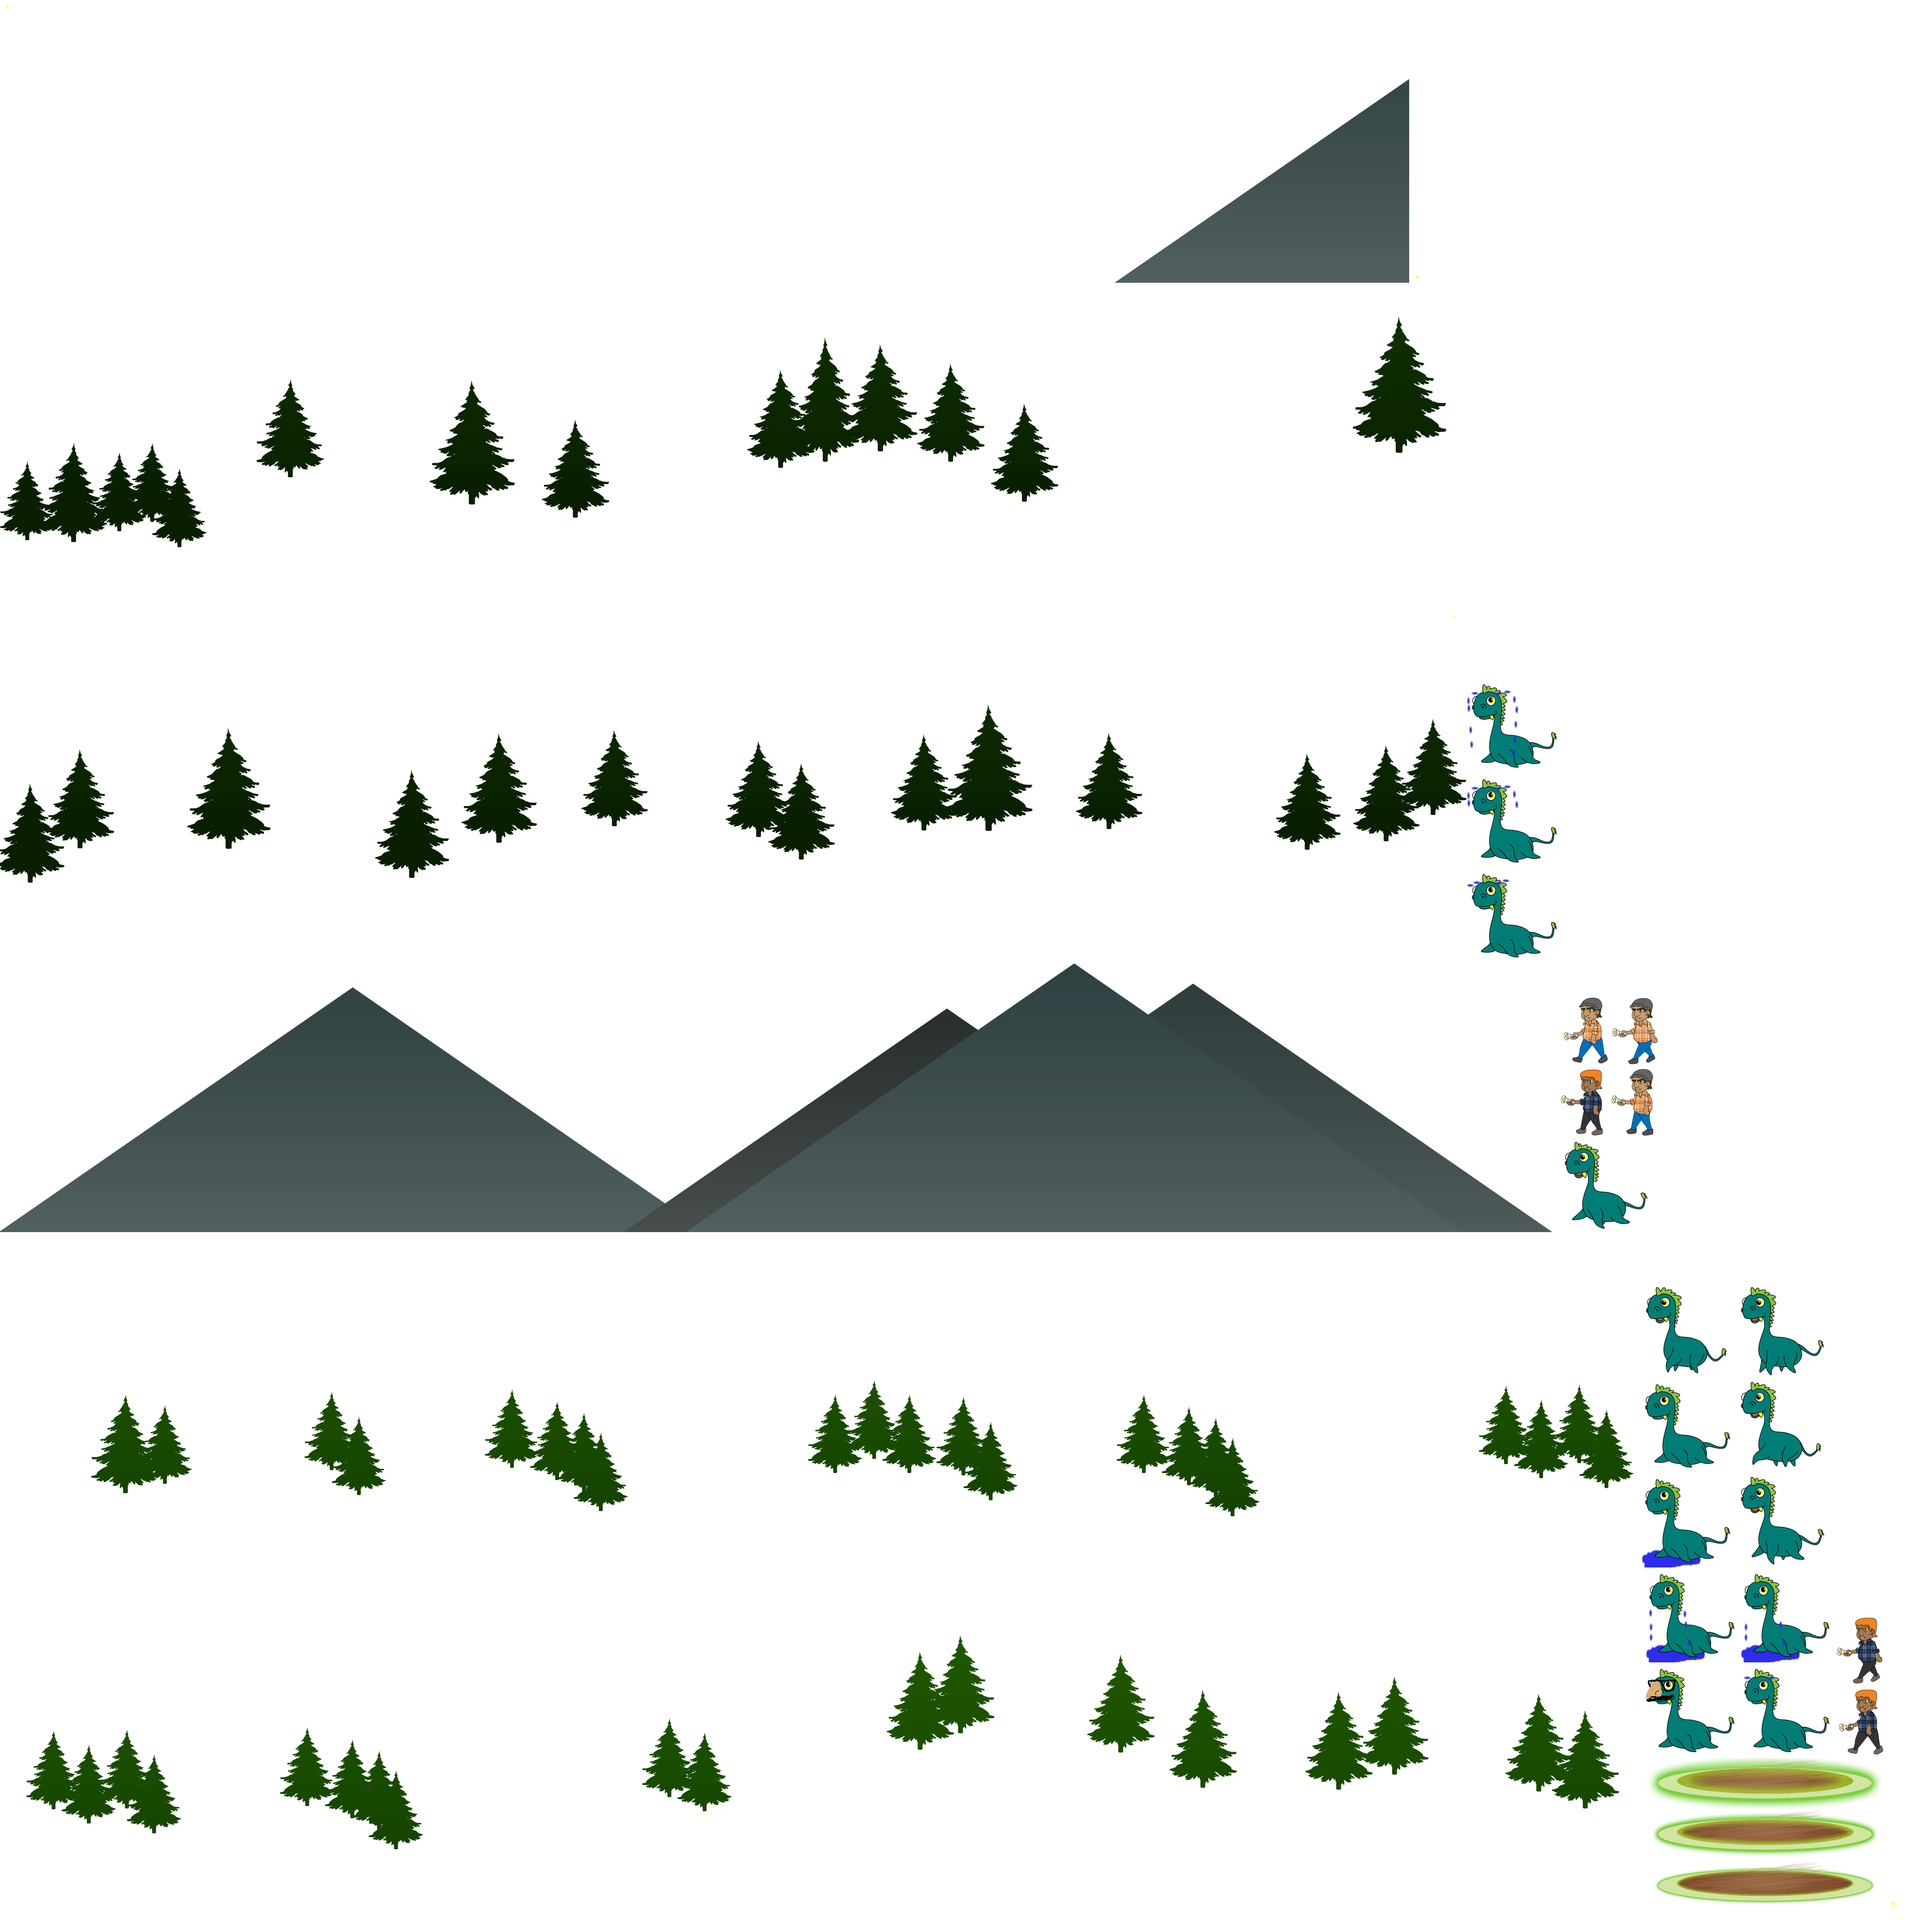
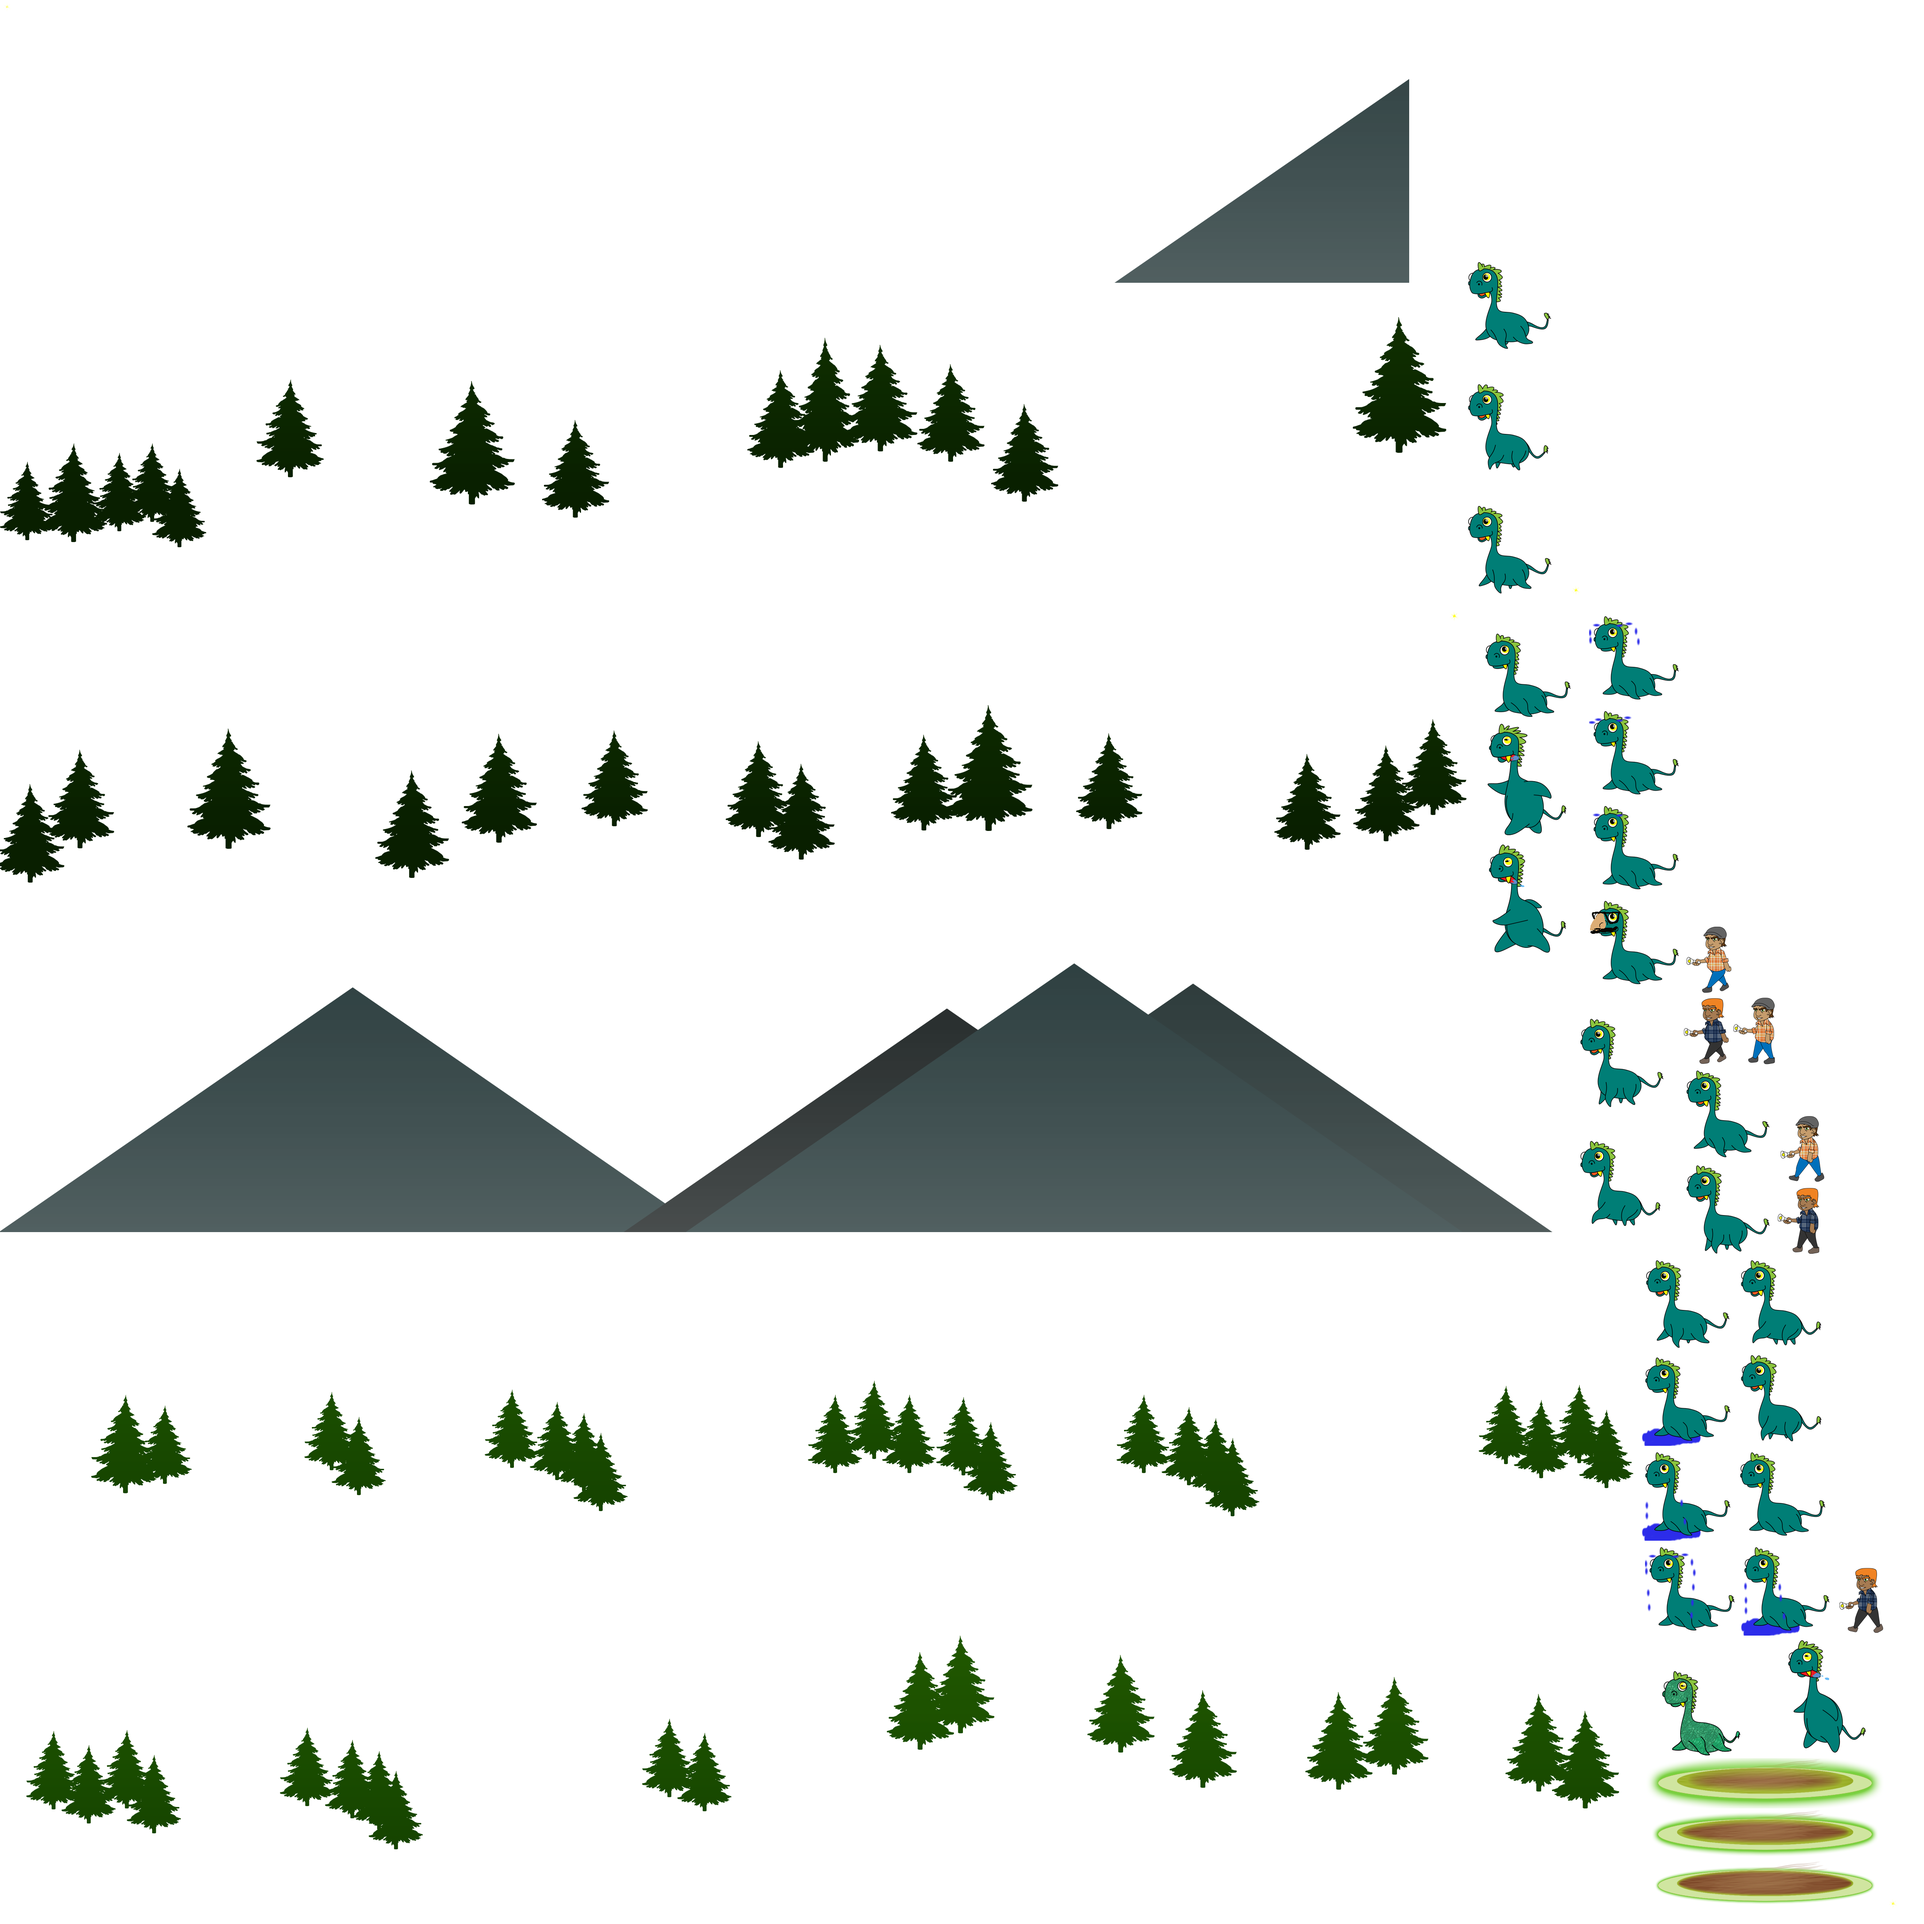
Added Running animation and bounding box increase

Changed region(s): [[0.75, 0.125, 1.0, 0.9375]]

diff --git a/core/src/com/pineapplepiranha/games/scene2d/actor/Player.java b/core/src/com/pineapplepiranha/games/scene2d/actor/Player.java
@@ -35,13 +35,15 @@ public class Player extends DepthActor{
     public boolean isHiding = false;
     public boolean isDisguised = false;
     protected boolean isFound = false;
+    public boolean isRunning = false;
 
     public Player(float x, float y, float width, float height, TextureRegion tr){
         super(x+BUFFER, y+BUFFER, width-BUFFER*2, height-(BUFFER*2), tr, 0);
         setColor(Color.YELLOW);
         normalTexture = tr;
         animation = null;
-        collider.set(x+(width/4), y+(height/4), width/2, height/2);
+        //collider.set(x+(width/4), y+(height/4), width/2, height/2);
+        collider.set(x+(width/4), y, width/2, height/2);
     }
 
     public Player(float x, float y, float width, float height, Animation anim){
@@ -53,7 +55,14 @@ public class Player extends DepthActor{
 
     @Override
     protected void adjustCollidingBox(float delta) {
-        collider.set(getX()+(getWidth()/4), getY()+(getHeight()/4), getWidth()/2, getHeight()/2);
+        if(isRunning){
+            Gdx.app.log("PLAYER", "IS RUNNING");
+            //collider.set(getX()+(getWidth()/8), getY()+(getHeight()/8), (getWidth()/1.5f), (getHeight()/1.5f));
+            collider.set(getX()+(getWidth()/8), getY(), (getWidth()/1.5f), (getHeight()/1.5f));
+        }   else{
+            //collider.set(getX()+(getWidth()/4), getY()+(getHeight()/4), getWidth()/2, getHeight()/2);
+            collider.set(getX()+(getWidth()/4), getY(), getWidth()/2, getHeight()/2);
+        }
     }
 
     @Override
@@ -80,10 +89,6 @@ public class Player extends DepthActor{
             }
             return;
         }else{
-
-            if(runningAnimation != null && isRunning()){
-               textureRegion = runningAnimation.getKeyFrame(keyFrameTotal);
-            }
             if(velocity.x == 0.0f && velocity.y == 0.0f){
                 //
                 if(isHiding){
@@ -93,7 +98,7 @@ public class Player extends DepthActor{
                 }
                 keyFrameTotal = 0f;
             }else if(animation != null){
-                textureRegion = animation.getKeyFrame(keyFrameTotal, true);
+                textureRegion = isRunning ? runningAnimation.getKeyFrame(keyFrameTotal, true) : animation.getKeyFrame(keyFrameTotal, true);
                 if(velocity.x < 0f){
                     textureRegion.flip(true, false);
 
@@ -154,13 +159,12 @@ public class Player extends DepthActor{
         return isFound;
     }
 
-    public boolean isRunning(){
-        return Math.abs(velocity.x) > speed || Math.abs(velocity.y) > speed;
-    }
     @Override
     protected void drawFull(Batch batch, float parentAlpha) {
         //super.drawFull(batch, parentAlpha);
-        if(isRunning()){
+        if(isRunning && velocity.x != 0f && velocity.y != 0f){
+            batch.draw(textureRegion, getX()-(BUFFER/2), getY()-(BUFFER/2), getWidth()+(BUFFER), getHeight()+(BUFFER));
+        }else{
             batch.draw(textureRegion, getX()-BUFFER, getY()-BUFFER, getWidth()+(BUFFER*2), getHeight()+(BUFFER*2));
         }
         if(KasetagenStateUtil.isDebugMode()){

diff --git a/core/src/com/pineapplepiranha/games/scene2d/actor/Patroler.java b/core/src/com/pineapplepiranha/games/scene2d/actor/Patroler.java
@@ -8,6 +8,7 @@ import com.badlogic.gdx.graphics.g2d.TextureRegion;
 import com.badlogic.gdx.graphics.glutils.ShapeRenderer;
 import com.badlogic.gdx.math.Rectangle;
 import com.badlogic.gdx.math.Vector2;
+import com.kasetagen.engine.gdx.scenes.scene2d.KasetagenStateUtil;
 import com.pineapplepiranha.games.scene2d.GenericActor;
 
 /**
@@ -46,20 +47,20 @@ public class Patroler extends DepthActor{
         velocity = new Vector2(speed, 0f);
         this.depthPos = depthPos;
         this.range = range;
-        this.visionBox = new Rectangle(x-(getVisionBoxWidth()), y-(height/2), getVisionBoxWidth(), height*2);
+        this.visionBox = new Rectangle(x-(getVisionBoxWidth()), y-(height/4), getVisionBoxWidth(), height*1.5f);
         this.animation = ani;
     }
-    public Patroler(float x, float y, float width, float height, TextureRegion tr, int depthPos, float range){
-        super(x, y, width, height, tr, depthPos);
-        setColor(Color.BLUE);
-        initialPos = new Vector2(x, y);
-        minX = x + (width/2) - range;
-        maxX = x + (width/2) + range;
-        velocity = new Vector2(speed, 0f);
-        this.depthPos = depthPos;
-        this.range = range;
-        this.visionBox = new Rectangle(x-(getVisionBoxWidth()), y-(height/4), getVisionBoxWidth(), height*1.5f);
-    }
+    //    public Patroler(float x, float y, float width, float height, TextureRegion tr, int depthPos, float range){
+    //        super(x, y, width, height, tr, depthPos);
+    //        setColor(Color.BLUE);
+    //        initialPos = new Vector2(x, y);
+    //        minX = x + (width/2) - range;
+    //        maxX = x + (width/2) + range;
+    //        velocity = new Vector2(speed, 0f);
+    //        this.depthPos = depthPos;
+    //        this.range = range;
+    //        this.visionBox = new Rectangle(x-(getVisionBoxWidth()), y-(height/4), getVisionBoxWidth(), height*1.5f);
+    //    }
 
     private float getVisionBoxWidth(){
         return getWidth()*2;
@@ -116,6 +117,26 @@ public class Patroler extends DepthActor{
 
         if(flashlight != null){
             batch.draw(flashlight, visionBox.x, visionBox.y, visionBox.width, visionBox.height);
+        }
+
+        if(KasetagenStateUtil.isDebugMode()){
+            batch.end();
+            batch.begin();
+            Gdx.gl20.glLineWidth(1f);
+            //Set the projection matrix, and line shape
+            debugRenderer.setProjectionMatrix(getStage().getCamera().combined);
+            debugRenderer.begin(ShapeRenderer.ShapeType.Line);
+
+            //Draw the bounds of the actor as a box
+            Color c = getColor() != null ? getColor() : Color.WHITE;
+            debugRenderer.setColor(c);
+            debugRenderer.rect(visionBox.x, visionBox.y, visionBox.width, visionBox.height);
+
+            //End our shapeRenderer, flush the batch, and re-open it for future use as it was open
+            // coming in.
+            debugRenderer.end();
+            batch.end();
+            batch.begin();
         }
 
     }

diff --git a/core/src/com/pineapplepiranha/games/scene2d/stage/StealthNessieStage.java b/core/src/com/pineapplepiranha/games/scene2d/stage/StealthNessieStage.java
@@ -160,18 +160,20 @@ public class StealthNessieStage extends BaseStage {
         landingPad.setZIndex(depthInitialIndex++);
 
 
-        Animation walking = new Animation(1f/5f, atlas.findRegions("nessie/Walk"));
+        Animation walking = new Animation(1f/5f, atlas.findRegions("nessie/Walking"));
         Animation sadNessie = new Animation(1f/7f, atlas.findRegions("nessie/Sad"));
-        TextureRegion hidingTr = new TextureRegion(am.get(AssetsUtil.NESSIE_PTRN, AssetsUtil.TEXTURE));
+        Animation runNessie = new Animation(1f/6f, atlas.findRegions("nessie/Run"));
+        TextureRegion hidingTr = atlas.findRegion("nessie/Cammo");
         hidingTr.flip(true, false);
-        TextureRegion normalTr = atlas.findRegion("nessie/Still");
+        TextureRegion normalTr = atlas.findRegion("nessie/Stills");
         normalTr.flip(true, false);
 
         TextureRegion disguisedTr = atlas.findRegion("nessie/Disguised");
         disguisedTr.flip(true, false);
 
-        player = new Player(playerPos.x, playerPos.y, 150f, 150f, walking);
+        player = new Player(playerPos.x, playerPos.y, 200f, 200f, walking);
         player.sadAnimation = sadNessie;
+        player.runningAnimation = runNessie;
         player.setHidingTexture(hidingTr);
         player.setNormalTexture(normalTr);
         player.disguisedTexture = disguisedTr;
@@ -376,6 +378,7 @@ public class StealthNessieStage extends BaseStage {
                     }
 
                     if(Input.Keys.SHIFT_LEFT == keycode || Input.Keys.SHIFT_RIGHT == keycode){
+                        player.isRunning = true;
                         player.speed = player.speed*2f;
                         player.setXVelocity(player.velocity.x*2f);
                         player.setYVelocity(player.velocity.y*2f);
@@ -414,6 +417,7 @@ public class StealthNessieStage extends BaseStage {
                     }
                 }
                 if(Input.Keys.SHIFT_LEFT == keycode || Input.Keys.SHIFT_RIGHT == keycode){
+                    player.isRunning = false;
                     player.speed = player.speed/2f;
                     player.setXVelocity(player.velocity.x/2f);
                     player.setYVelocity(player.velocity.y/2f);

diff --git a/core/src/com/pineapplepiranha/games/SneakyNessieGame.java b/core/src/com/pineapplepiranha/games/SneakyNessieGame.java
@@ -60,7 +60,6 @@ public class SneakyNessieGame extends Game implements IGameProcessor {
         assetManager.load(AssetsUtil.TREE_1, AssetsUtil.TEXTURE);
         assetManager.load(AssetsUtil.TREE_2, AssetsUtil.TEXTURE);
         assetManager.load(AssetsUtil.BUSH, AssetsUtil.TEXTURE);
-        assetManager.load(AssetsUtil.NESSIE_PTRN, AssetsUtil.TEXTURE);
         assetManager.load(AssetsUtil.FLASHLIGHT, AssetsUtil.TEXTURE);
         assetManager.load(AssetsUtil.MASK_ICON, AssetsUtil.TEXTURE);
         assetManager.load(AssetsUtil.GRASS, AssetsUtil.TEXTURE);

diff --git a/core/src/com/pineapplepiranha/games/util/AssetsUtil.java b/core/src/com/pineapplepiranha/games/util/AssetsUtil.java
@@ -31,7 +31,6 @@ public class AssetsUtil {
     public static final String TREE_1 = "images/Tree.png";
     public static final String TREE_2 = "images/Pine-Tree.png";
     public static final String BUSH = "images/Bush.png";
-    public static final String NESSIE_PTRN = "images/Nessi-Pattern.png";
     public static final String FLASHLIGHT = "images/flashlight.png";
     public static final String MASK_ICON = "images/Mask_Icon.png";
     public static final String GRASS = "images/Front-Grass.png";
